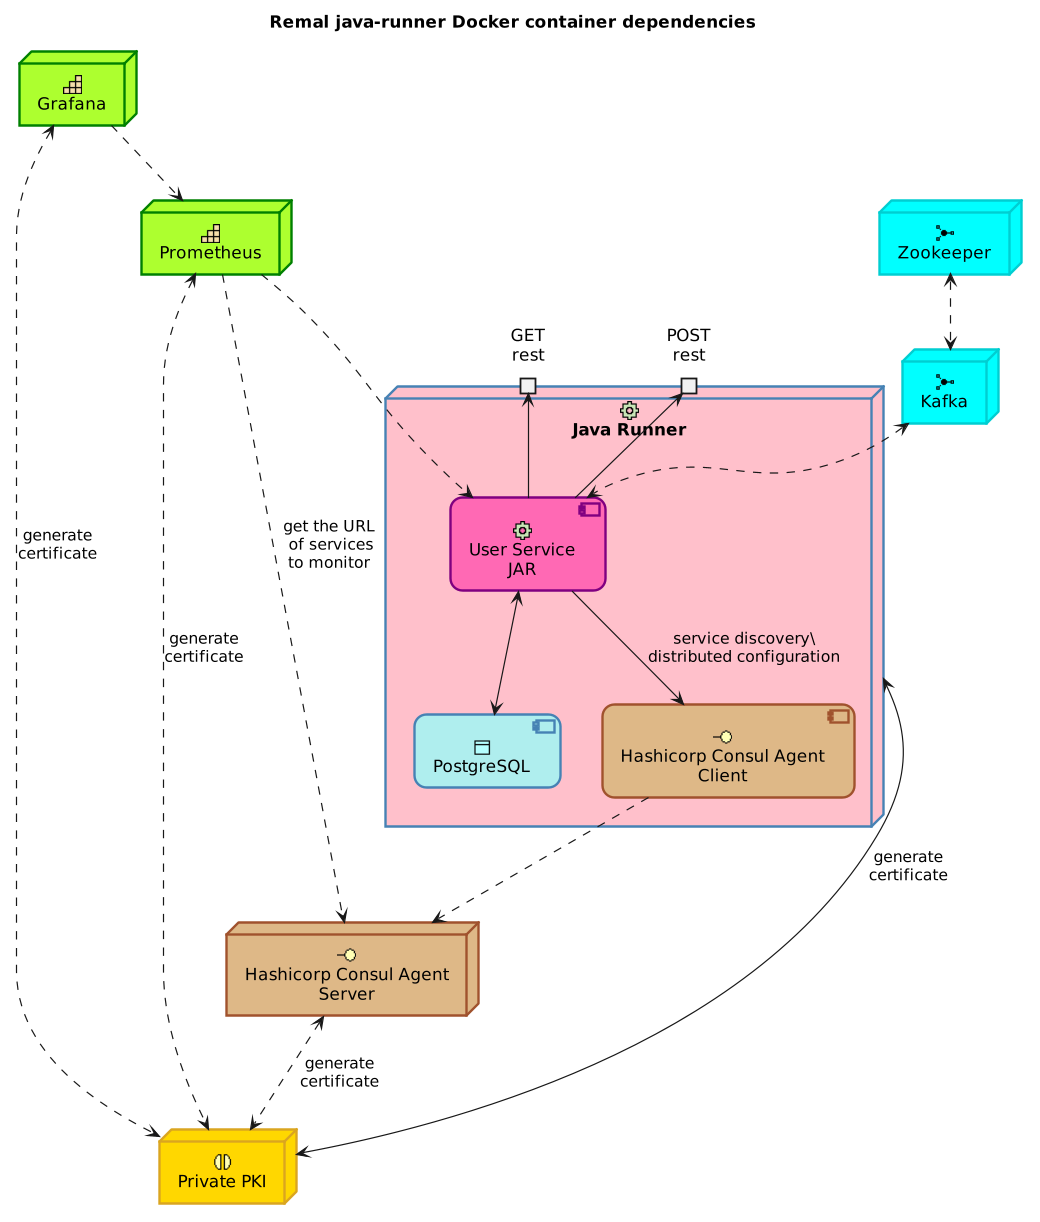
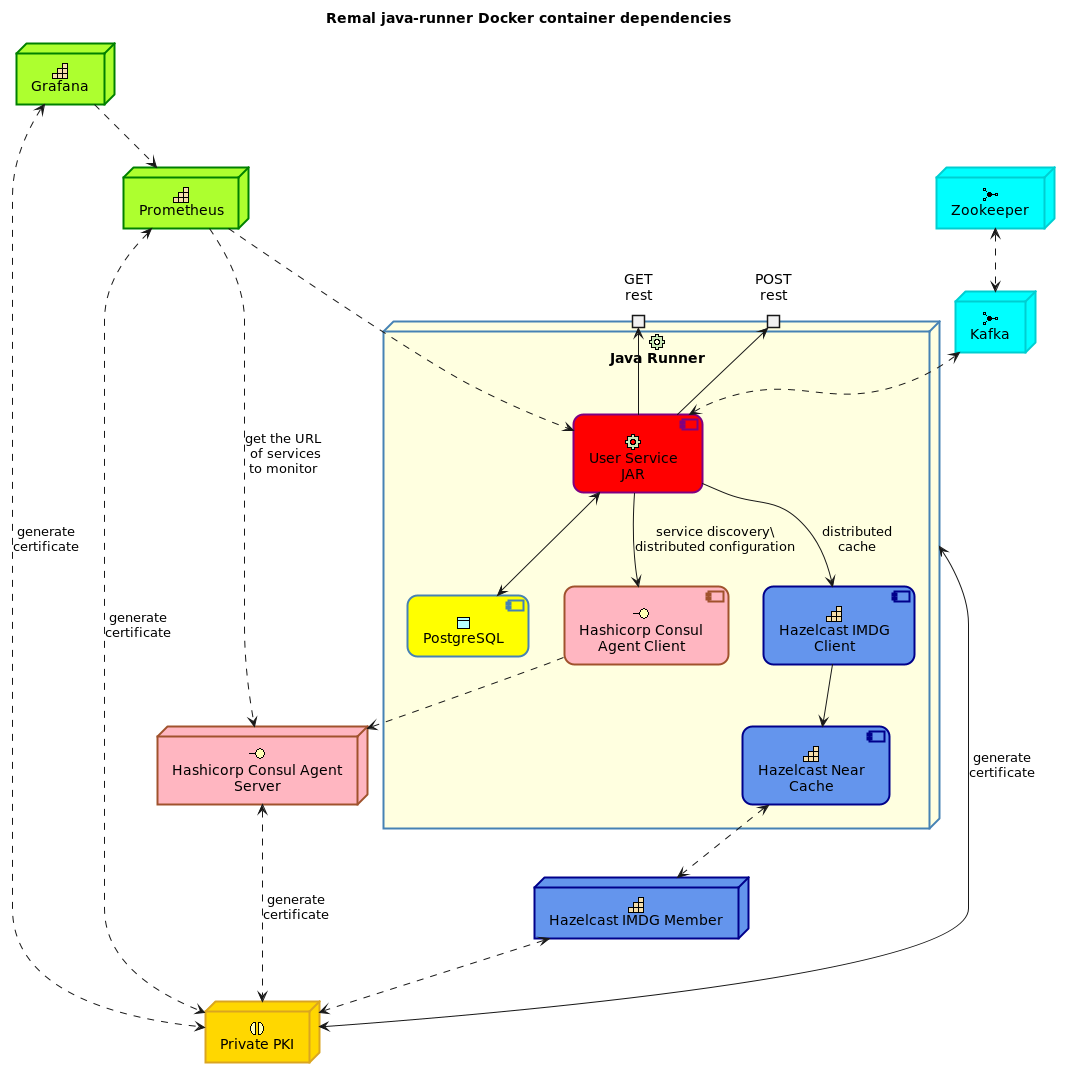
preparing for hazelcast-imdg image

diff --git a/docker/infrastructure/hazelcast-imdg/RELEASE.md b/docker/infrastructure/hazelcast-imdg/RELEASE.md
@@ -1,0 +1,11 @@
+# Release info
+
+All notable changes to this project will be documented in this file.
+
+## [0.0.1] - 13/Sep/2024
+#### Added
+* Hazelcast IMDG 4.2.8
+
+<a href="https://trackgit.com">
+  <img src="https://us-central1-trackgit-analytics.cloudfunctions.net/token/ping/lcfhkdub7k2lpj33n2cl" alt="trackgit-views" />
+</a>

diff --git a/docker/infrastructure/hazelcast-imdg/README.md b/docker/infrastructure/hazelcast-imdg/README.md
@@ -1,0 +1,5 @@
+# Remal Image: Hazelcast IMDG Cache
+
+<a href="https://trackgit.com">
+  <img src="https://us-central1-trackgit-analytics.cloudfunctions.net/token/ping/lcfhkdub7k2lpj33n2cl" alt="trackgit-views" />
+</a>
